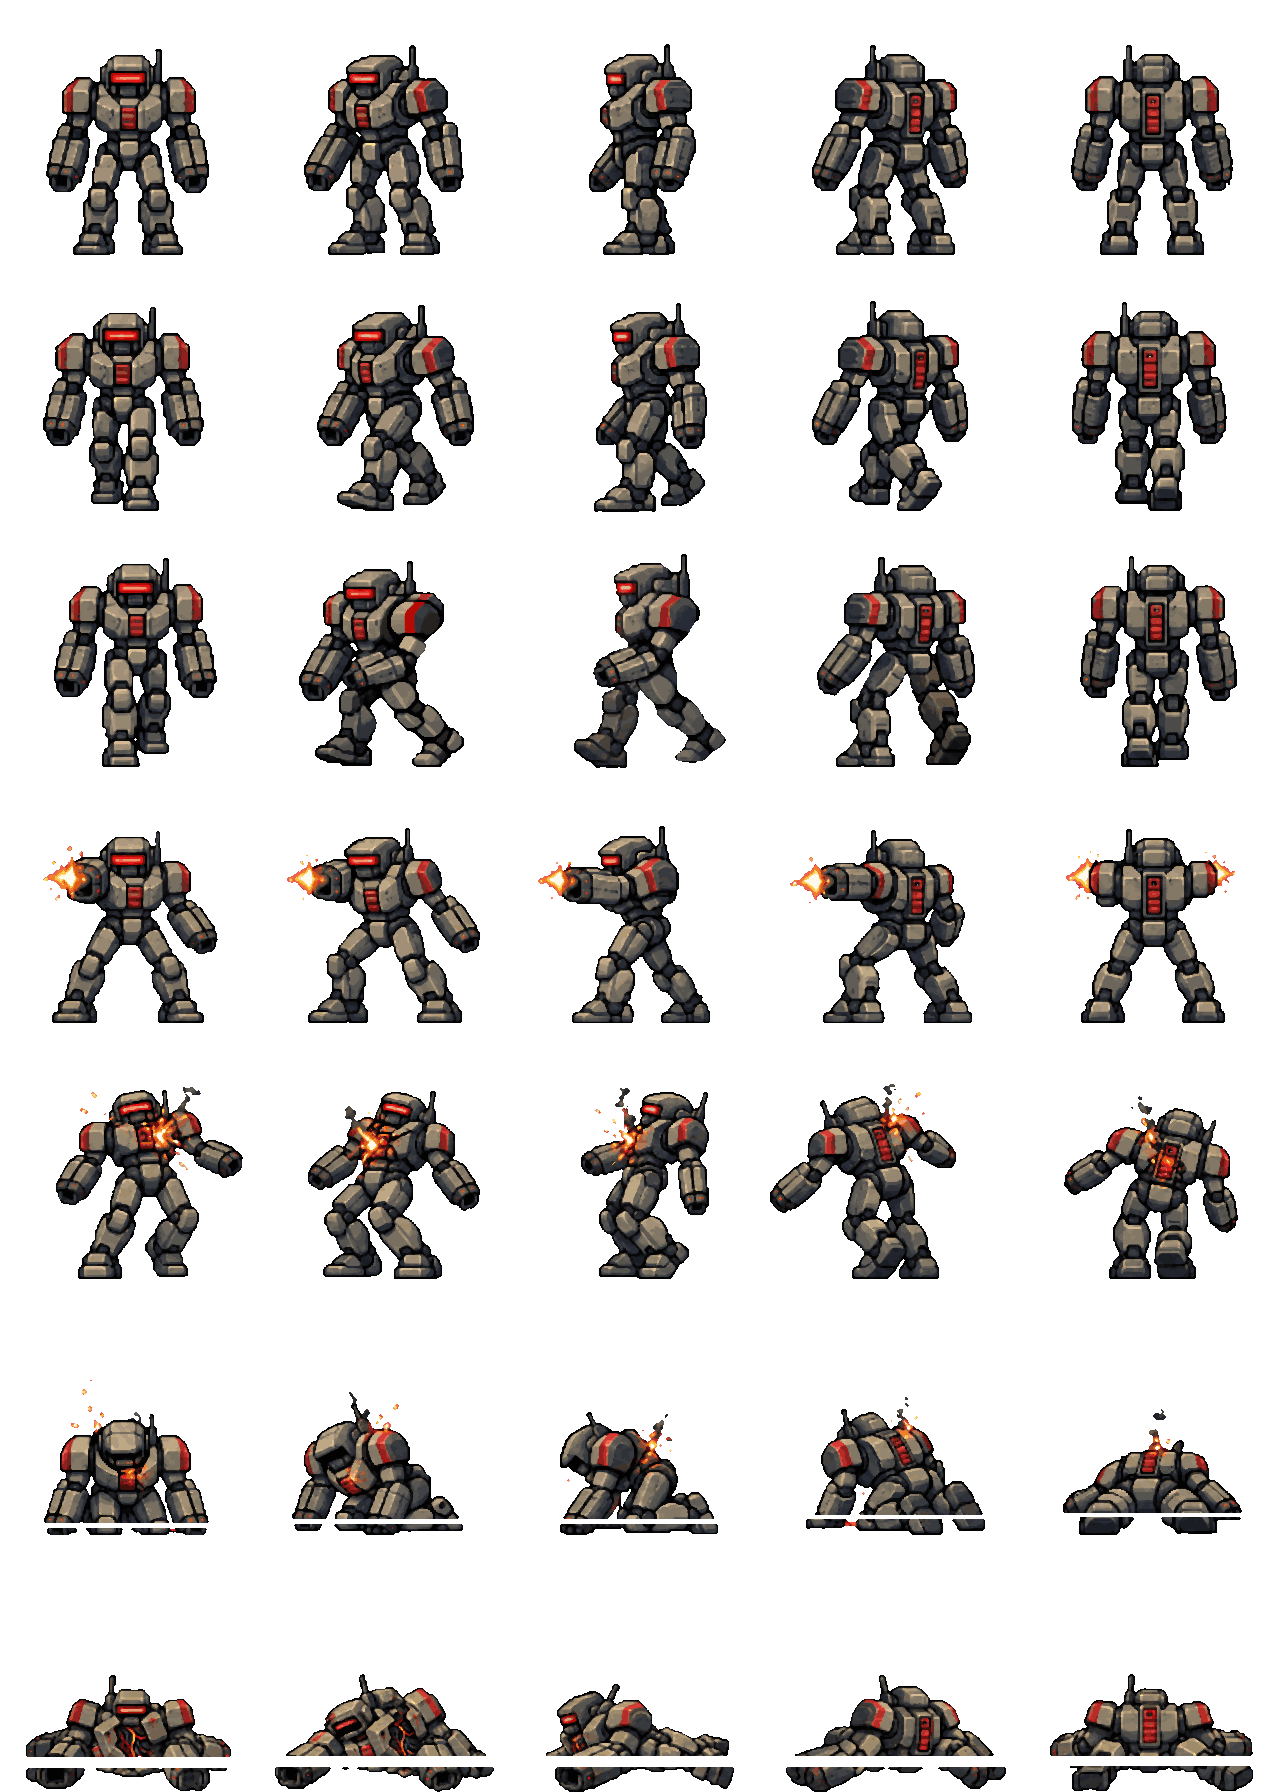
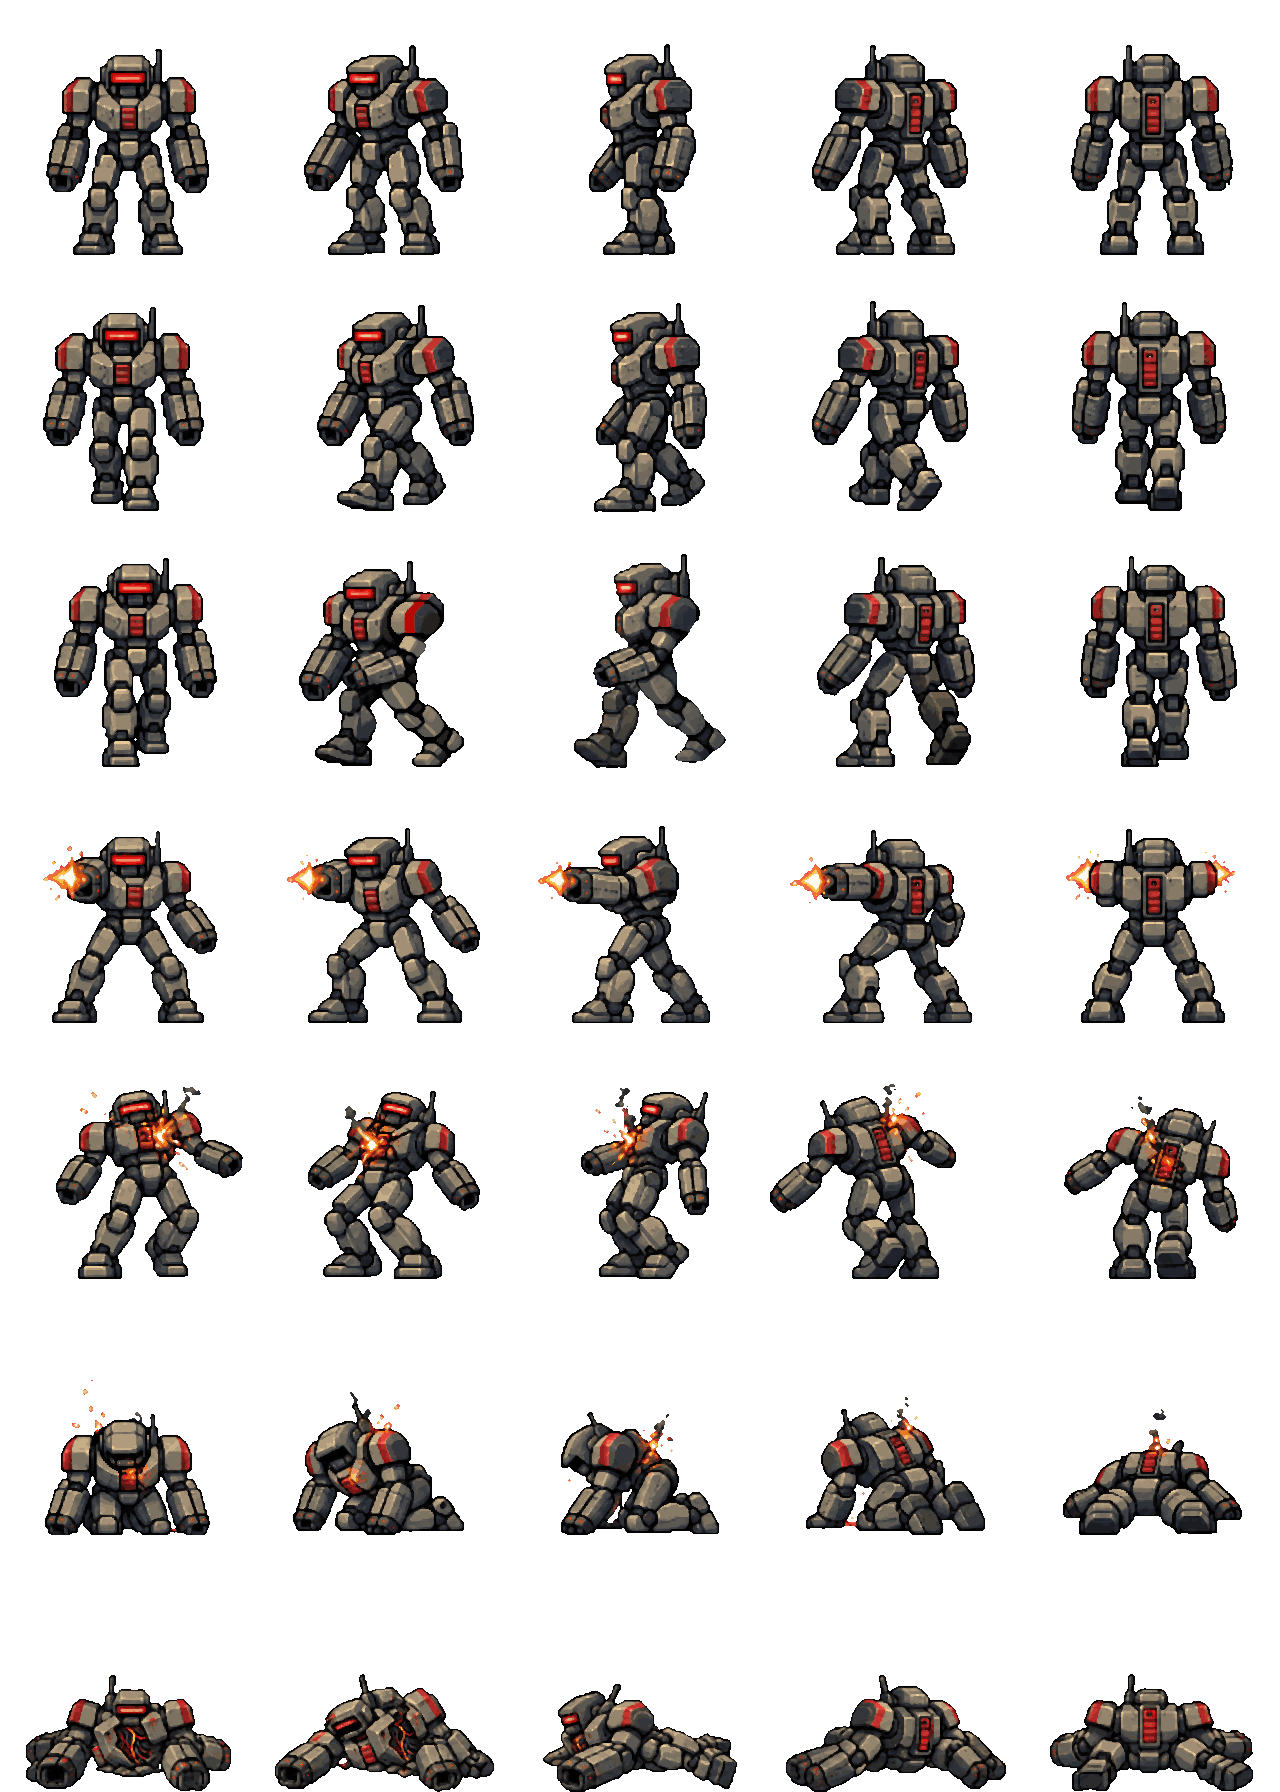
Actor sheet: grid lines told apart by their color, so wide figures side by side keep their rows

diff --git a/scripts/make-actor-sheet.ts b/scripts/make-actor-sheet.ts
@@ -86,17 +86,27 @@ function findFigures(img: Raw, count: number, cols: number, isBg: Background): F
   const { width: W, height: H } = img;
   const fg = new Uint8Array(W * H);
   for (let y = 0; y < H; y++) for (let x = 0; x < W; x++) if (!isBg(img, x, y)) fg[y * W + x] = 1;
-  // grid lines: rows or columns filled nearly all the way across
+  // grid lines: rows or columns of line-colored pixels nearly all the way
+  // across - black, or the purple of black blended into the magenta
+  // (figures side by side can fill a row too, but not in those colors)
+  const dark = (i: number) => {
+    const [r, g, b] = [img.data[i * 3], img.data[i * 3 + 1], img.data[i * 3 + 2]];
+    return r + g + b < 120 || (g < 40 && Math.abs(r - b) < 60);
+  };
+  const lineRows: number[] = [];
+  const lineCols: number[] = [];
   for (let y = 0; y < H; y++) {
     let n = 0;
-    for (let x = 0; x < W; x++) n += fg[y * W + x];
-    if (n > W * 0.9) fg.fill(0, y * W, (y + 1) * W);
+    for (let x = 0; x < W; x++) if (fg[y * W + x] && dark(y * W + x)) n++;
+    if (n > W * 0.9) lineRows.push(y);
   }
   for (let x = 0; x < W; x++) {
     let n = 0;
-    for (let y = 0; y < H; y++) n += fg[y * W + x];
-    if (n > H * 0.9) for (let y = 0; y < H; y++) fg[y * W + x] = 0;
+    for (let y = 0; y < H; y++) if (fg[y * W + x] && dark(y * W + x)) n++;
+    if (n > H * 0.9) lineCols.push(x);
   }
+  for (const y of lineRows) fg.fill(0, y * W, (y + 1) * W);
+  for (const x of lineCols) for (let y = 0; y < H; y++) fg[y * W + x] = 0;
   // grown by REACH each way, so pixels a little apart touch
   const grow = (src: Uint8Array, horizontal: boolean) => {
     const out = new Uint8Array(W * H);
